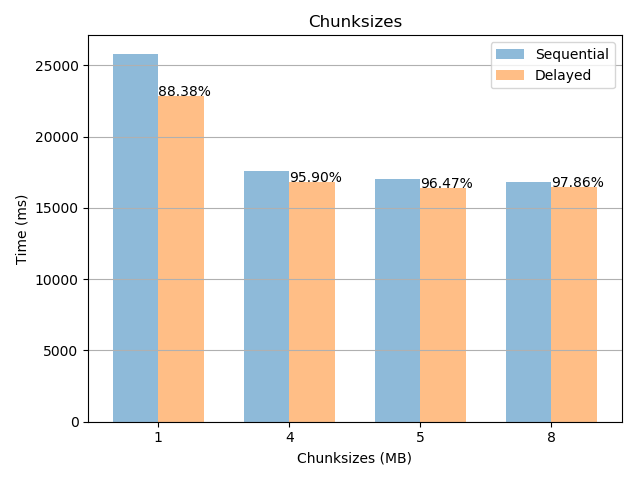
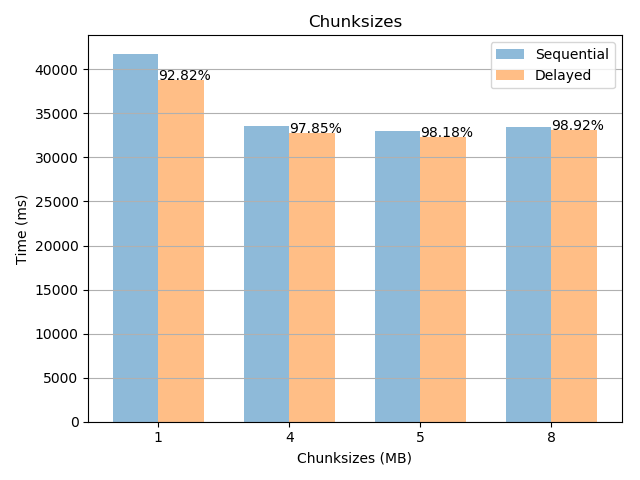
added combination graph. added trunc. exponential dist.

diff --git a/main/mainfile.py b/main/mainfile.py
@@ -15,12 +15,12 @@ if __name__ =='__main__':
     my_path = os.path.abspath(__file__)
 
     #ARGUMENTS
-    repetitions = 5
+    repetitions = 1
     chunksizes = [1,4,5,8]
     means = [(10,8.8), (50,44), (100,88), (150,132)]
     #stddevs = [8.8, 44, 88, 132]
     serverload = [10,100,300]
-    bandwith = [4,54,190,1000]
+    bandwith = [2,26,198,1000]
 
     #RESULT ARRAYS
     # Use a compound data type for structured arrays
@@ -37,15 +37,26 @@ if __name__ =='__main__':
                           ('del', 10 , np.zeros(repetitions)),('del', 50 , np.zeros(repetitions)),
                           ('del', 100 , np.zeros(repetitions)) ,('del', 150 , np.zeros(repetitions))], dtype=dt)
 
+    dt = np.dtype([('scheme', np.unicode_, 16), ('mean', np.int32), ('value', np.float64, (repetitions,))])
+    rttresultexp = np.array([('seq', 10 , np.zeros(repetitions)),('seq', 50 , np.zeros(repetitions)),
+                          ('seq', 100 , np.zeros(repetitions)),('seq', 150 , np.zeros(repetitions)),
+                          ('del', 10 , np.zeros(repetitions)),('del', 50 , np.zeros(repetitions)),
+                          ('del', 100 , np.zeros(repetitions)) ,('del', 150 , np.zeros(repetitions))], dtype=dt)
+
     dt = np.dtype([('scheme', np.unicode_, 16), ('bandwith', np.int32), ('value', np.float64, (1,))])
-    bandwithresult = np.array([('seq', 4 , np.zeros(1)),('seq', 54 , np.zeros(1)),
-                                ('seq', 190 , np.zeros(1)),('seq', 1000 , np.zeros(1)),
-                                ('del', 4 , np.zeros(1)),('del', 54 , np.zeros(1)),
-                               ('del', 190 , np.zeros(1)),('del', 1000 , np.zeros(1))], dtype=dt)
+    bandwithresult = np.array([('seq', 2 , np.zeros(1)),('seq', 26 , np.zeros(1)),
+                                ('seq', 198 , np.zeros(1)),('seq', 1000 , np.zeros(1)),
+                                ('del', 2 , np.zeros(1)),('del', 26 , np.zeros(1)),
+                               ('del', 198 , np.zeros(1)),('del', 1000 , np.zeros(1))], dtype=dt)
+
+    combiresultseq = []
+    combiresultdel = []
     #Other
     rtt100 = []
+    rtt150 = []
     for i in range(1000):
         rtt100.append(100)
+        rtt150.append(150)
 
 
 
@@ -158,6 +169,62 @@ if __name__ =='__main__':
                     break
 
 
+    #+++++++++++++++++++++RTT (exponential)++++++++++++++++++++++++++++++++++++++++++
+
+    for x in range(repetitions):
+        print(x)
+
+        for value in means:
+            lower, upper = 1, 1000
+            mu, sigma = value[0], value[1]
+            scale = mu
+            E = stats.truncexpon(loc = lower, b = (upper-lower) / scale , scale = scale)
+            rtt = E.rvs(size=1000)
+
+            #++++++++++++++++++++++Sequential++++++++++++++++++++++++++++++
+            clientq = queue.Queue()
+            serverq = queue.Queue()
+            ackq = queue.Queue()
+
+            s = Server(4, ackq, clientq, serverq, "receive" , "sequential" , rtt, 10)
+            c = Client(4, ackq, clientq, serverq, "send", "sequential")
+
+            s.setName("Server")
+            c.setName("Client")
+            s.start()
+            c.start()
+            c.join()
+
+            while True:
+                if not c.is_alive():
+                    delay = s.get_delay()
+                    rttresultexp['value'][:,x][np.logical_and(rttresultexp['scheme'] == 'seq', rttresultexp['mean'] == value[0])] = delay
+                    s.join()
+                    break
+                    #sys.exit()
+
+            #++++++++++++++++++++++Delayed++++++++++++++++++++++++++++++
+
+            clientq = queue.Queue()
+            serverq = queue.Queue()
+            ackq = queue.Queue()
+
+            s = Server(4, ackq, clientq, serverq, "receive" , "delayed" , rtt, 10,2)
+            c = Client(4, ackq, clientq, serverq, "send", "delayed", 2)
+
+            s.setName("Server")
+            c.setName("Client")
+            s.start()
+            c.start()
+            c.join()
+
+            while True:
+                if not c.is_alive():
+                    delay = s.get_delay()
+                    rttresultexp['value'][:,x][np.logical_and(rttresultexp['scheme'] == 'del', rttresultexp['mean'] == value[0])] = delay
+                    s.join()
+                    break
+
 
     #+++++++++++++++++++++Bandwith++++++++++++++++++++++++++++++++++++++++++
     for speed in bandwith:
@@ -207,7 +274,51 @@ if __name__ =='__main__':
                 s.join()
 
                 break
+    ###Combi################################3
+    clientq = queue.Queue()
+    serverq = queue.Queue()
+    ackq = queue.Queue()
 
+    s = Server(1, ackq, clientq, serverq, "receive" , "sequential" , rtt150, 10, 1, 1000)
+    c = Client(1, ackq, clientq, serverq, "send", "sequential")
+
+    s.setName("Server")
+    c.setName("Client")
+    s.start()
+    c.start()
+    c.join()
+
+    while True:
+        if not c.is_alive():
+            delay = s.get_delay()
+            combiresultseq.append(delay)
+            s.join()
+
+            break
+            #sys.exit()
+
+    #++++++++++++++++++++++Delayed++++++++++++++++++++++++++++++
+
+    clientq = queue.Queue()
+    serverq = queue.Queue()
+    ackq = queue.Queue()
+
+    s = Server(1, ackq, clientq, serverq, "receive" , "delayed" , rtt150, 10, 2,1000)
+    c = Client(1, ackq, clientq, serverq, "send", "delayed", 2)
+
+    s.setName("Server")
+    c.setName("Client")
+    s.start()
+    c.start()
+    c.join()
+
+    while True:
+        if not c.is_alive():
+            delay = s.get_delay()
+            combiresultdel.append(delay)
+            s.join()
+
+            break
     ############################################Graphs###########################################
 
     #####Chunksize#################
@@ -272,7 +383,7 @@ if __name__ =='__main__':
         bandwithdif.append(x)
     bandwithdif = np.array(bandwithdif)
 
-    indices = np.arange(1,len(bandwithseq))
+    indices = np.arange(0,len(bandwithseq))
     bandwithseq = np.take(bandwithseq,indices)
     bandwithdel = np.take(bandwithdel,indices)
     bandwithdif = np.take(bandwithdif,indices)
@@ -299,9 +410,9 @@ if __name__ =='__main__':
     # Save the figure and show
     for a,b,c in zip(x_pos + (width / 2), bandwithdel, bandwithdif):
         plt.text(a, b, c)
-    plt.xlabel("bandwith (mpbs)")
+    plt.xlabel("Bandwith (mpbs)")
     plt.tight_layout()
-    plt.savefig('graphs/bandwith_seq_del_graph.png')
+    plt.savefig('graphs/bandwith_seq_del_graph(inc2).png')
     #plt.show()
 
 
@@ -312,21 +423,39 @@ if __name__ =='__main__':
     rttdelmeans = []
     rttdelstds = []
 
+    rttseqmeansexp = []
+    rttseqstdsexp = []
+    rttdelmeansexp = []
+    rttdelstdsexp = []
+
     for mean in means:
         titles.append(str(mean)+"seq")
         titles.append(str(mean)+"del")
+        #Getting result
         rttseq = rttresult[np.logical_and(rttresult['scheme'] == 'seq', rttresult['mean'] == mean[0])]
         rttdel = rttresult[np.logical_and(rttresult['scheme'] == 'del', rttresult['mean'] == mean[0])]
-
+        rttseqexp = rttresultexp[np.logical_and(rttresultexp['scheme'] == 'seq', rttresultexp['mean'] == mean[0])]
+        rttdelexp = rttresultexp[np.logical_and(rttresultexp['scheme'] == 'del', rttresultexp['mean'] == mean[0])]
+        #Calculate mean(exp and norm)
         rttseqmean = np.mean(rttseq['value'])
         rttdelmean = np.mean(rttdel['value'])
+        rttseqmeanexp = np.mean(rttseqexp['value'])
+        rttdelmeanexp = np.mean(rttdelexp['value'])
+        #put mean in array
         rttseqmeans.append(rttseqmean)
         rttdelmeans.append(rttdelmean)
-
+        rttseqmeansexp.append(rttseqmeanexp)
+        rttdelmeansexp.append(rttdelmeanexp)
+        #Calculate std (exp and norm)
         rttseqstd = np.std(rttseq['value'])
         rttdelstd = np.std(rttdel['value'])
+        rttseqstdexp = np.std(rttseqexp['value'])
+        rttdelstdexp = np.std(rttdelexp['value'])
+        #put std in array
         rttseqstds.append(rttseqstd)
         rttdelstds.append(rttdelstd)
+        rttseqstdsexp.append(rttseqstdexp)
+        rttdelstdsexp.append(rttdelstdexp)
 
 
     # print(titles)
@@ -337,6 +466,10 @@ if __name__ =='__main__':
     rttdelmeans = np.array(rttdelmeans)
     rttseqstds = np.array(rttseqstds)
     rttdelstds = np.array(rttdelstds)
+    rttseqmeansexp = np.array(rttseqmeansexp)
+    rttdelmeansexp = np.array(rttdelmeansexp)
+    rttseqstdsexp = np.array(rttseqstdsexp)
+    rttdelstdsexp = np.array(rttdelstdsexp)
 
     #Make array for percentage change above bars
     rttdif = []
@@ -346,11 +479,19 @@ if __name__ =='__main__':
         rttdif.append(x)
     rttdif = np.array(rttdif)
 
+    rttdifexp = []
+    for i in range(len(rttseqmeansexp)):
+        x = rttdelmeansexp[i] / rttseqmeansexp[i]
+        x = "{:.2%}".format(x)
+        rttdifexp.append(x)
+    rttdifexp = np.array(rttdifexp)
+
     print(titles)
     print("rtt seq means" , rttseqmeans)
     print("rtt del means", rttdelmeans)
     print("rtt seq std", rttseqstds)
     print("rtt del std", rttdelstds)
+
 
     x_pos = np.arange(len(rttseqmeans))
     width = 0.35 #width of the bars
@@ -361,7 +502,7 @@ if __name__ =='__main__':
     ax.set_xticks(x_pos + width / 2)
     #ax.set_xticklabels(titles)
     ax.set_xticklabels(('10', '50', '100', '150'))
-    ax.set_title('RTTs')
+    ax.set_title('RTT (Normal Distribution)')
     ax.yaxis.grid(True)
     ax.legend((seqbar[0], delbar[0]), ('Sequential', 'Delayed'))
     for a,b,c in zip(x_pos + (width / 2), rttseqmeans, rttdif):
@@ -370,4 +511,63 @@ if __name__ =='__main__':
     plt.xlabel("Round-trip time (ms)")
     plt.tight_layout()
     plt.savefig('graphs/rtt_seq_del_graph(errorbars).png')
+    #plt.show()
+
+    #Exponential Graph
+    x_pos = np.arange(len(rttseqmeansexp))
+    width = 0.35 #width of the bars
+    fig, ax = plt.subplots()
+    seqbar = ax.bar(x_pos, rttseqmeansexp, width, yerr=rttseqstdsexp, align='center', alpha=0.5, ecolor='black', capsize=10)
+    delbar = ax.bar(x_pos + width, rttdelmeansexp, width , yerr=rttdelstdsexp, align='center', alpha=0.5, ecolor='black', capsize=10)
+    ax.set_ylabel('Time (ms)')
+    ax.set_xticks(x_pos + width / 2)
+    #ax.set_xticklabels(titles)
+    ax.set_xticklabels(('10', '50', '100', '150'))
+    ax.set_title('RTT (Exponential distribution)')
+    ax.yaxis.grid(True)
+    ax.legend((seqbar[0], delbar[0]), ('Sequential', 'Delayed'))
+    for a,b,c in zip(x_pos + (width / 2), rttseqmeansexp, rttdifexp):
+        plt.text(a, b, c)
+    # Save the figure and show
+    plt.xlabel("Round-trip time (ms)")
+    plt.tight_layout()
+    plt.savefig('graphs/rtt_seq_del_exp_graph(errorbars).png')
+    #plt.show()
+
+
+    #####Combination graph#################
+
+
+    print("combiresult seq", combiresultseq)
+    print("combiresult del", combiresultdel)
+    combiresultseq = np.array(combiresultseq)
+    combiresultdel = np.array(combiresultdel)
+    combiresultdif = []
+    #Make array for percentage change above bars
+    chunkdif = []
+    for i in range(len(combiresultseq)):
+        x = (combiresultdel[i] / combiresultseq[i] )
+        x = "{:.2%}".format(x)
+        combiresultdif.append(x)
+    combiresultdif = np.array(combiresultdif)
+
+    x_pos = np.arange(len(combiresultseq))
+    width = 0.35 #width of the bars
+    fig, ax  = plt.subplots()
+    combiseqbar = ax.bar(x_pos, combiresultseq, width, align='center', alpha=0.5, ecolor='black', capsize=10)
+    combidelbar = ax.bar(x_pos + width, combiresultdel, width , align='center', alpha=0.5, ecolor='black', capsize=10)
+    ax.set_ylabel('Time (ms)')
+    ax.set_xticks(x_pos + width / 2)
+    #ax.set_xticklabels(titles)
+    ax.set_xticklabels(chunksizes)
+    ax.set_title('Combination: Chunksize = 1MB; RTT = 150ms; Bandwith = 1000mbps')
+    ax.yaxis.grid(True)
+    ax.legend((combiseqbar[0], combidelbar[0]), ('Sequential', 'Delayed'))
+    for a,b,c in zip(x_pos + (width / 2), combiresultseq, combiresultdif):
+        plt.text(a, b, c)
+    # Save the figure and show
+    #plt.xlabel("Chunksizes (MB)")
+    ax.xaxis.set_visible(False)
+    plt.tight_layout()
+    plt.savefig('graphs/combi_graph.png')
     #plt.show()

diff --git a/main/test.py b/main/test.py
@@ -4,17 +4,37 @@ import math as mth
 import numpy as np
 
 lower, upper = 1, 1000
-mu, sigma = 12, 10.56
+mu, sigma = 100, 88
+scale = mu
+
 X = stats.truncnorm(
     (lower - mu) / sigma, (upper - mu) / sigma, loc=mu, scale=sigma)
 N = stats.norm(loc=mu, scale=sigma)
-E = stats.expon(loc = mu, scale = sigma)
+E = stats.truncexpon(loc = lower, b = (upper-lower) / scale , scale = scale)
 
-fig, ax = plt.subplots(3, sharex=True)
-ax[0].hist(X.rvs(10000), density=True)
-ax[1].hist(N.rvs(10000), density=True)
-ax[2].hist(E.rvs(10000), density=False, bins=1000)
-plt.show()
+mean, var = stats.truncexpon.stats(loc= lower , b = (upper - lower) / scale, scale = scale, moments = 'mv')
+print(mean,var,mth.sqrt(var))
+mean, var = stats.norm.stats(loc=mu, scale=sigma)
+print(mean,var,mth.sqrt(var))
+
+
+fig, ax = plt.subplots(3, sharex=False)
+ax[0].hist(N.rvs(1000000), density=True, bins=1000)
+
+ax[0].set_title('Normal distribution')
+#ax[0].set_xlim(-50,100)
+ax[1].hist(X.rvs(1000000), density=True, bins=1000)
+ax[1].set_title('Truncated normal distrubtion (1,1000)')
+
+n, bins, patches  = ax[2].hist(E.rvs(1000000), density=True, bins=1000)
+print(n)
+print(bins)
+ax[2].set_xlim(-5,400)
+ax[2].set_title('Truncated exponential distrubtion (1,1000)')
+
+plt.tight_layout()
+#plt.show()
+plt.savefig('graphs/histograms.png')
 
 
 

diff --git a/main/Server.py b/main/Server.py
@@ -10,7 +10,7 @@ from datetime import datetime
 from scipy.stats import truncnorm
 
 class Server(Thread):
-    def __init__(self, chunksize, ackq, clientq, serverq, mode, scheme, rtt, load, ackdelay = 1, bandwith = 54):
+    def __init__(self, chunksize, ackq, clientq, serverq, mode, scheme, rtt, load, ackdelay = 1, bandwith = 26):
         super(Server,self).__init__()
         # print("Server: initiliazed")
         self.filesize = 100
